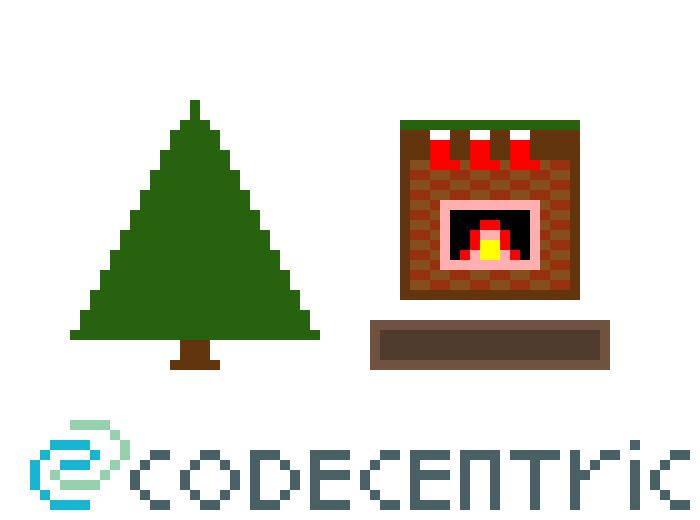
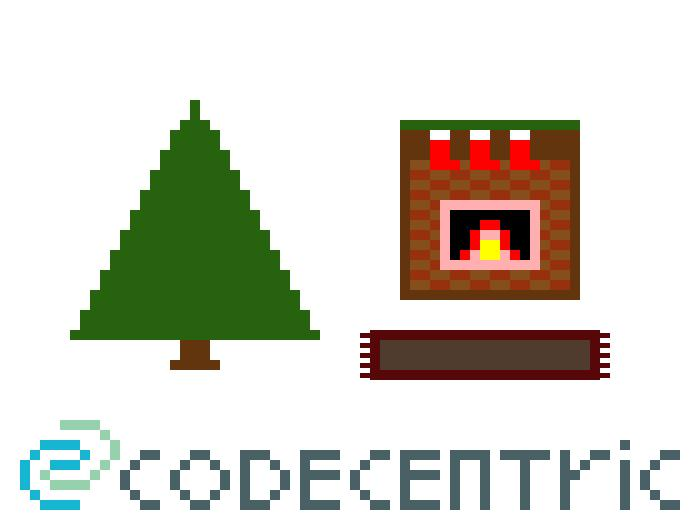
adjust rug

Changed region(s): [[0.03, 0.8, 0.6, 0.9846], [0.51, 0.6154, 0.87, 0.7385], [0.63, 0.8308, 0.99, 0.9846]]

diff --git a/src/main/java/nl/codecentric/xmascodechallenge/domain/Rug.java b/src/main/java/nl/codecentric/xmascodechallenge/domain/Rug.java
@@ -13,15 +13,15 @@ public class Rug {
     private final int y;
 
     public void printRug(Graphics2D g2d){
-        g2d.setColor(Colors.DARK_RED.getColor());
+        g2d.setColor(Colors.WHITE.getColor());
         for (int xVar = x - 10; xVar < x + 240; xVar = xVar + 10) {
-            for (int yVar = y - 10; yVar < y + 60; yVar = yVar + 10) {
+            for (int yVar = y +3; yVar < y + 50; yVar = yVar + 5) {
                 if (g2d.getColor().equals(Colors.DARK_RED.getColor())) {
                     g2d.setColor(Colors.WHITE.getColor());
                 } else {
                     g2d.setColor(Colors.DARK_RED.getColor());
                 }
-                g2d.fillRect(xVar, yVar, 10, 10);
+                g2d.fillRect(xVar, yVar, 10, 5);
             }
         }
         g2d.setColor(Colors.DARK_RED.getColor());
